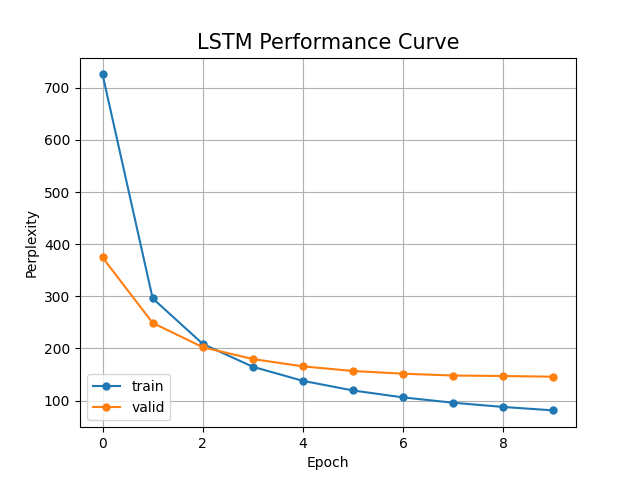
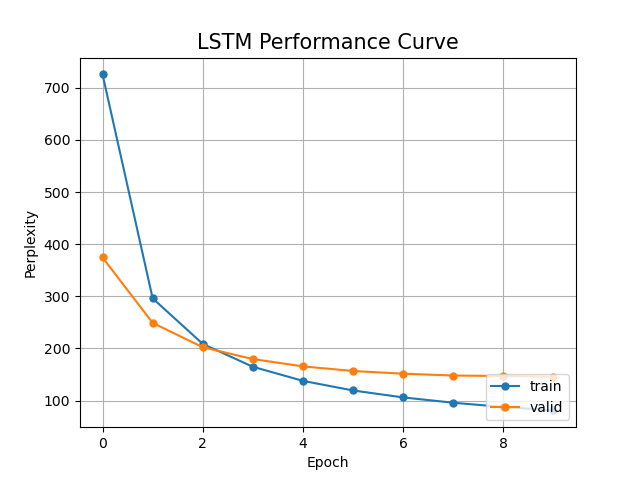
run experiments

diff --git a/assignment2/plot_results.py b/assignment2/plot_results.py
@@ -11,7 +11,10 @@ def get_data(file):
     with open(file) as f:
         lines = f.readlines()
     
-    return [float(l) for l in lines]
+    if 'gpu' in file:
+        return [float(l.split(' ')[0]) for l in lines]
+    else:
+        return [float(l) for l in lines]
 
 def plot_results_lstm(file):
     exps = glob.glob(logdir + file, recursive=True)
@@ -20,6 +23,8 @@ def plot_results_lstm(file):
         valid_loss_f = exp + '/valid_loss.txt'
         train_ppl_f = exp + '/train_ppl.txt'
         valid_ppl_f = exp + '/valid_ppl.txt'
+        train_time_f = exp + '/train_time.txt'
+        test_ppl_f = exp + '/test_ppl.txt'
 
         # Loss curve
         train_loss = get_data(train_loss_f)
@@ -39,16 +44,69 @@ def plot_results_lstm(file):
                     save_as=exp.split('/')[-1] + '_ppl.png',
                     axes=['Epoch', 'Perplexity'])
 
+        # Print time and performance
+        test_ppl = get_data(test_ppl_f)
+        train_time = get_data(train_time_f)
+        print('----------------')
+        print('Exp name: ', exp)
+        print('Train time: mean ', np.mean(train_time), ' std ', np.std(train_time))
+        print('Valid Performance: ', valid_ppl)
+        print('Test Performance: ', test_ppl)
 
-def plot_graph(data, labels=[], title='', save_as='', axes=[]):
+
+def plot_results_vit(file):
+    exps = glob.glob(logdir + file, recursive=True)
+    for exp in exps:
+        train_acc_f = exp + '/train_ppl.txt'
+        valid_acc_f = exp + '/valid_ppl.txt'
+        train_time_f = exp + '/train_time.txt'
+        test_acc_f = exp + '/test_ppl.txt'
+        gpu_f = exp + '/gpu_mem_usage.txt'
+
+        # Accuracy curve over epochs
+        train_acc = get_data(train_acc_f)
+        valid_acc = get_data(valid_acc_f)
+        plot_graph([train_acc, valid_acc], 
+                    labels=['train', 'valid'], 
+                    title='ViT Performance over Epochs',
+                    save_as=exp.split('/')[-1] + '_acc_epochs.png',
+                    axes=['Epoch', 'Accuracy'])
+
+        # Accuracy curve over clock time
+        train_acc = get_data(train_acc_f)
+        valid_acc = get_data(valid_acc_f)
+        train_time = get_data(train_time_f)
+        plot_graph([train_acc, valid_acc], 
+                    labels=['train', 'valid'], 
+                    title='ViT Performance over Training Time',
+                    save_as=exp.split('/')[-1] + '_acc_time.png',
+                    axes=['Time (s)', 'Accuracy'],
+                    x_vals=np.cumsum(train_time))
+
+        # Print time and performance
+        test_acc = get_data(test_acc_f)
+        gpu = get_data(gpu_f)
+        print('----------------')
+        print('Exp name: ', exp)
+        print('Train time: mean ', np.mean(train_time), ' std ', np.std(train_time))
+        print('Train Performance: ', np.max(train_acc))
+        print('Valid Performance: ', np.max(valid_acc))
+        print('Test Performance: ', test_acc)
+        print('GPU Memory: ', np.mean(gpu))
+
+
+def plot_graph(data, labels=[], title='', save_as='', axes=[], x_vals=None):
     fig = plt.figure()
     for idx, d in enumerate(data):
-        plt.plot(d,label=labels[idx], marker=".", markersize=10)
+        if x_vals is not None:
+            plt.plot(x_vals, d,label=labels[idx], marker=".", markersize=10)
+        else:
+            plt.plot(d,label=labels[idx], marker=".", markersize=10)
 
     plt.ylabel(axes[1], fontsize=10)
     plt.xlabel(axes[0], fontsize=10)
     plt.title(title, fontsize=15)
-    plt.legend(loc='lower left')
+    plt.legend(loc='lower right')
     plt.grid()
     plt.savefig(plot_dir + save_as)
 
@@ -56,4 +114,7 @@ def plot_graph(data, labels=[], title='', save_as='', axes=[]):
 if __name__ == '__main__':    
 
     # LSTM exps
-    test = plot_results_lstm('lstm_*')
+    plot_results_lstm('lstm_*')
+
+    # ViT exps
+    plot_results_vit('vit_*')
